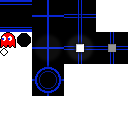
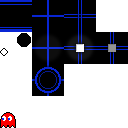
Ghost AI working now

Changed region(s): [[0.0, 0.875, 0.125, 1.0], [0.0, 0.25, 0.125, 0.375]]

diff --git a/Ghost.cpp b/Ghost.cpp
@@ -2,11 +2,12 @@
 
 GLuint Ghost::redghostlist;
 
-Ghost::Ghost(float _x, float _z){
+Ghost::Ghost(float _x, float _z, int _color){
 	x = _x;
 	z = _z;
 	dir = 5;
 	moved = 1.f;
+	color = _color;
 }
 
 void Ghost::init(GLuint _redghostlist){
@@ -31,25 +32,21 @@ void Ghost::update(float dt, Map& map){
 		case 3: x -= toMove; break;
 	}
 
-	int olddir = dir;
 	if(newDir){
+		int badDir;
 		if(map.canMove(xmask(x,dir),zmask(z,dir))){
-			for(int i = 0; i < 4; ++i) {
-				dir = (dir - 1 + (rand() % 3))%4;
-				if(dir != (olddir+2)%4 && map.canMove(xmask(x,dir),zmask(z,dir))){
-					std::cout << dir << std::endl;
-					return;
-				}
-			}
+			badDir = (dir+2)%4;
 		}
 		else{
-			for(int i = 0; i < 4; ++i) {
-				dir = (dir + 1 + (rand() % 3))%4;
-				if(dir != olddir && map.canMove(xmask(x,dir),zmask(z,dir))){
-					std::cout << dir << std::endl;
-					return;
-				}
+			badDir = dir;
+		}
+
+		dir = rand() % 4;
+		for(int i = 0; i < 4; ++i) {
+			if(dir != badDir && map.canMove(xmask(x,dir),zmask(z,dir))){
+				return;
 			}
+			dir = (dir+1)%4;
 		}
 	}
 }

diff --git a/DisplayLists.cpp b/DisplayLists.cpp
@@ -87,10 +87,10 @@ void Game::compileDisplayLists(){
 
 	glNewList(redghost,GL_COMPILE);
 		glBegin(GL_QUADS);
-		glTexCoord2f(0.f, 0.25f); 		glVertex3f(-0.45f,0.9f,0.f);
-		glTexCoord2f(1.f/8.f,0.25f); 	glVertex3f(0.45f,0.9f,0.f);
-		glTexCoord2f(1.f/8.f,3.f/8.f); 	glVertex3f(0.45f,0.f,0.f);
-		glTexCoord2f(0.f, 3.f/8.f); 	glVertex3f(-0.45f,0.f,0.f);
+		glTexCoord2f(0.f, 7.f/8.f); 		glVertex3f(-0.45f,0.9f,0.f);
+		glTexCoord2f(1.f/8.f,7.f/8.f); 		glVertex3f(0.45f,0.9f,0.f);
+		glTexCoord2f(1.f/8.f,1.f); 			glVertex3f(0.45f,0.f,0.f);
+		glTexCoord2f(0.f, 1.f); 			glVertex3f(-0.45f,0.f,0.f);
 		glEnd();
 	glEndList();
 

diff --git a/Ghost.hpp b/Ghost.hpp
@@ -10,13 +10,13 @@
 
 class Ghost {
 public:
-	Ghost(float _x, float _z);
+	Ghost(float _x, float _z, int _color);
 	static void init(GLuint _redghostlist);
 	void draw(float dirdeg);
 	void update(float dt,  Map& map);
 
 	float x,z;
-	int dir;
+	int dir, color;
 private:
 	static GLuint redghostlist;
 	float moved;

diff --git a/Game.cpp b/Game.cpp
@@ -11,7 +11,7 @@ void Game::loop(){
 
 	pl.y = 0.6f;
 
-	Ghost ghost(9.5f,16.5f);
+	Ghost ghost(9.5f,16.5f,0);
 
 	sf::Mouse::SetPosition(sf::Vector2i(SCREEN_WIDTH/2,SCREEN_HEIGHT/2),app);
 
